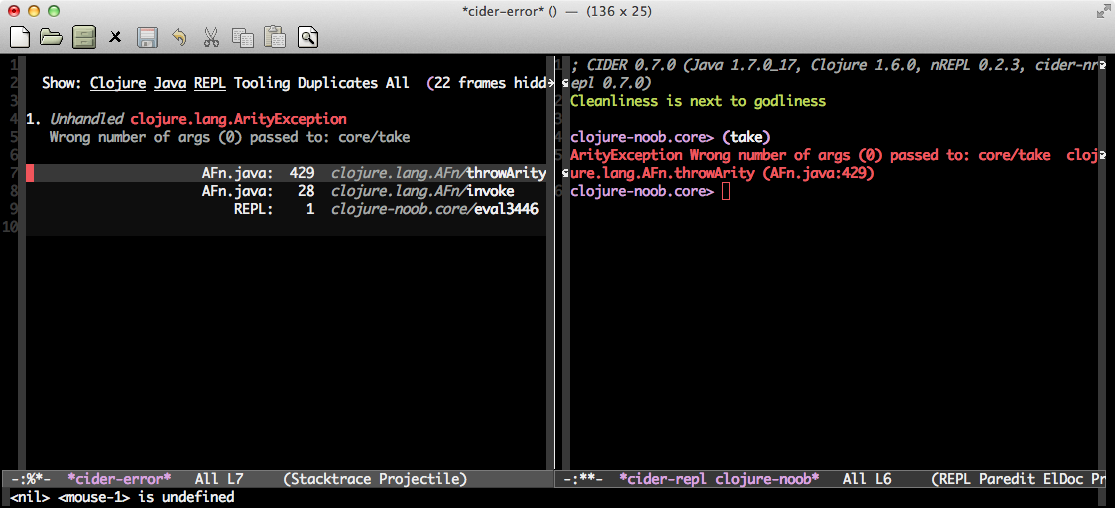
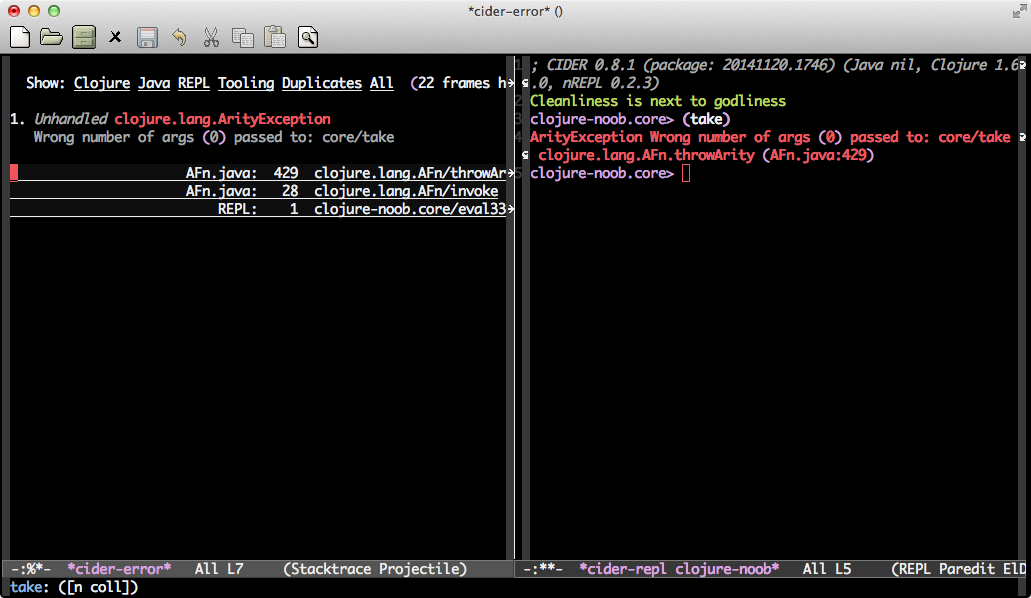
cider 0.8.1

Changed region(s): [[0.0, 0.0, 1.0, 1.0], [0.4035, 0.0, 0.5897, 0.0295], [0.9932, 0.0, 1.0, 0.0295]]

diff --git a/content/basic-emacs.md b/content/basic-emacs.md
@@ -80,7 +80,9 @@ following to use it:
    https://github.com/flyingmachine/emacs-for-clojure.git ~/.emacs.d`
 4. (Optional) delete the `.emacs.d/.git` directory. You'll probably
    want to create your own git repo for `.emacs.d`
-5. Open Emacs
+5. Create the file `~/.lein/profiles.clj` and add the line `{:user
+   {:plugins [[cider/cider-nrepl "0.8.1"]]}}` to it
+6. Open Emacs
 
 When you open Emacs you should see this:
 

diff --git a/content/using-emacs-with-clojure.md b/content/using-emacs-with-clojure.md
@@ -192,7 +192,7 @@ buffer.
 At the prompt, type this and hit enter: 
 
 ```clojure
-(map)
+(take)
 ```
 
 You should see something like this:
